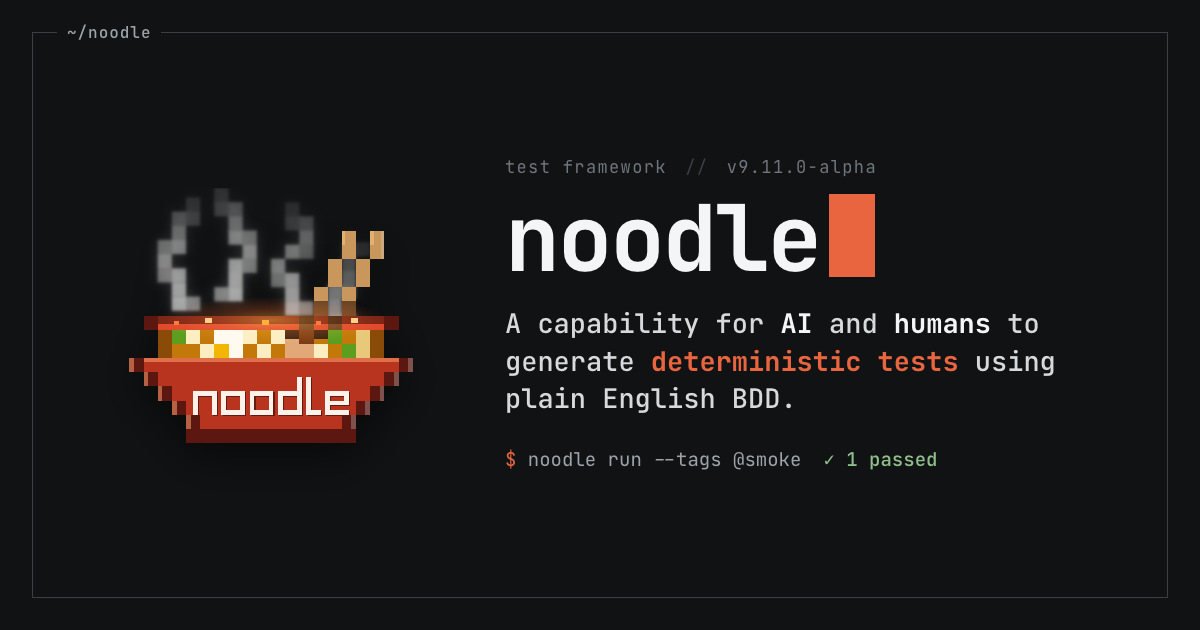
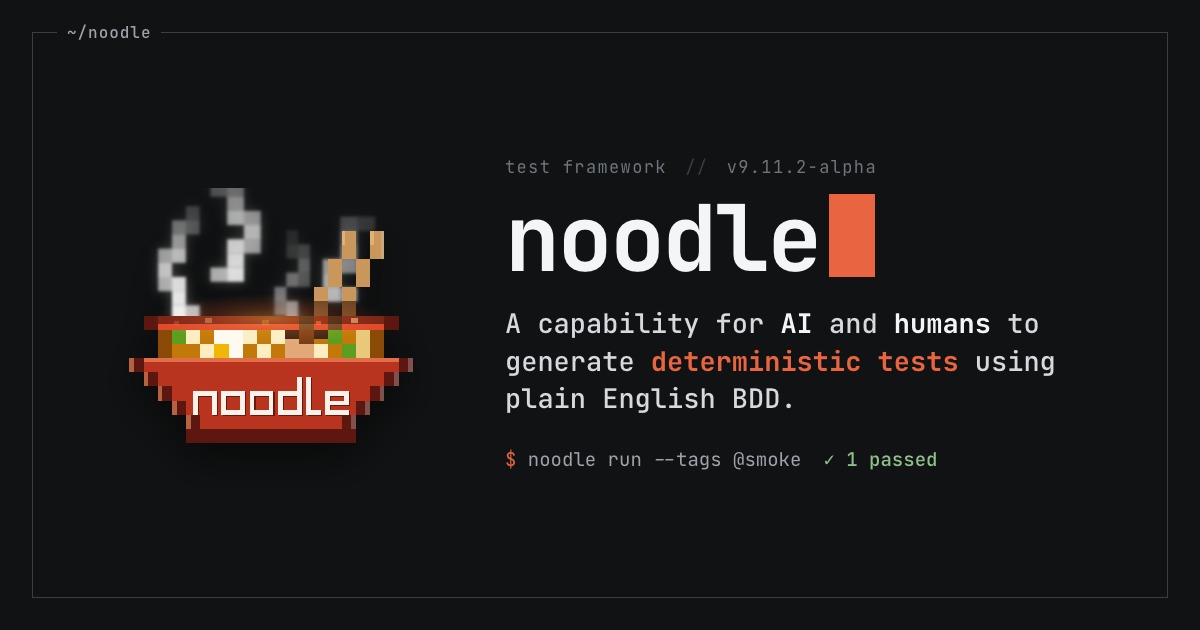
publish noodle marketing site (9.11.2-alpha)

Changed region(s): [[0.1233, 0.3016, 0.3083, 0.5127]]

diff --git a/noodle/index.html b/noodle/index.html
@@ -50,10 +50,13 @@
            width="20" height="17">
     </p>
 
-    <!-- Tracks the latest release tag (`git tag --sort=-v:refname | head -1`),
-         not main. The README tells pilot testers to pin to a tag, so main's
-         version is never the one anyone is actually running. -->
-    <p class="kicker">test framework <span class="sep">//</span> v9.11.0-alpha</p>
+    <!-- NOOD_0505 — tracks `pyproject.toml`, bumped in the SAME commit as the
+         engine change. It used to track the latest release tag, which meant
+         the page sat a version behind for as long as it took someone to
+         remember it; tests/unit/test_nood_0505.py now fails the branch
+         instead. The install pin below still needs that version to exist as a
+         tag, so publish.sh refuses to publish before the release is cut. -->
+    <p class="kicker">test framework <span class="sep">//</span> v9.11.2-alpha</p>
 
     <h1 class="wordmark">noodle<span class="cursor" aria-hidden="true"></span></h1>
 
@@ -141,7 +144,7 @@
 <pre class="code" id="install-cmd"><code><span class="c-cm"># macOS &mdash; the Windows 11 and Linux paths ship in the README</span>
 curl -LsSf https://astral.sh/uv/install.sh | sh
 git clone https://github.com/gheeno/noodle.git &amp;&amp; cd noodle
-git checkout 9.11.0-alpha  <span class="c-cm"># pin to a release &mdash; main moves several times a day</span>
+git checkout 9.11.2-alpha  <span class="c-cm"># pin to a release &mdash; main moves several times a day</span>
 uv venv &amp;&amp; uv tool install --editable <span class="c-str">".[all]"</span> --with-executables-from playwright
 playwright install chromium
 noodle doctor</code></pre>

diff --git a/noodle/tools/og-card.html b/noodle/tools/og-card.html
@@ -91,7 +91,7 @@
   </div>
 
   <div class="og-copy">
-    <p class="kicker">test framework <span class="sep">//</span> v9.11.0-alpha</p>
+    <p class="kicker">test framework <span class="sep">//</span> v9.11.2-alpha</p>
 
     <h1 class="wordmark">noodle<span class="cursor" aria-hidden="true"></span></h1>
 
